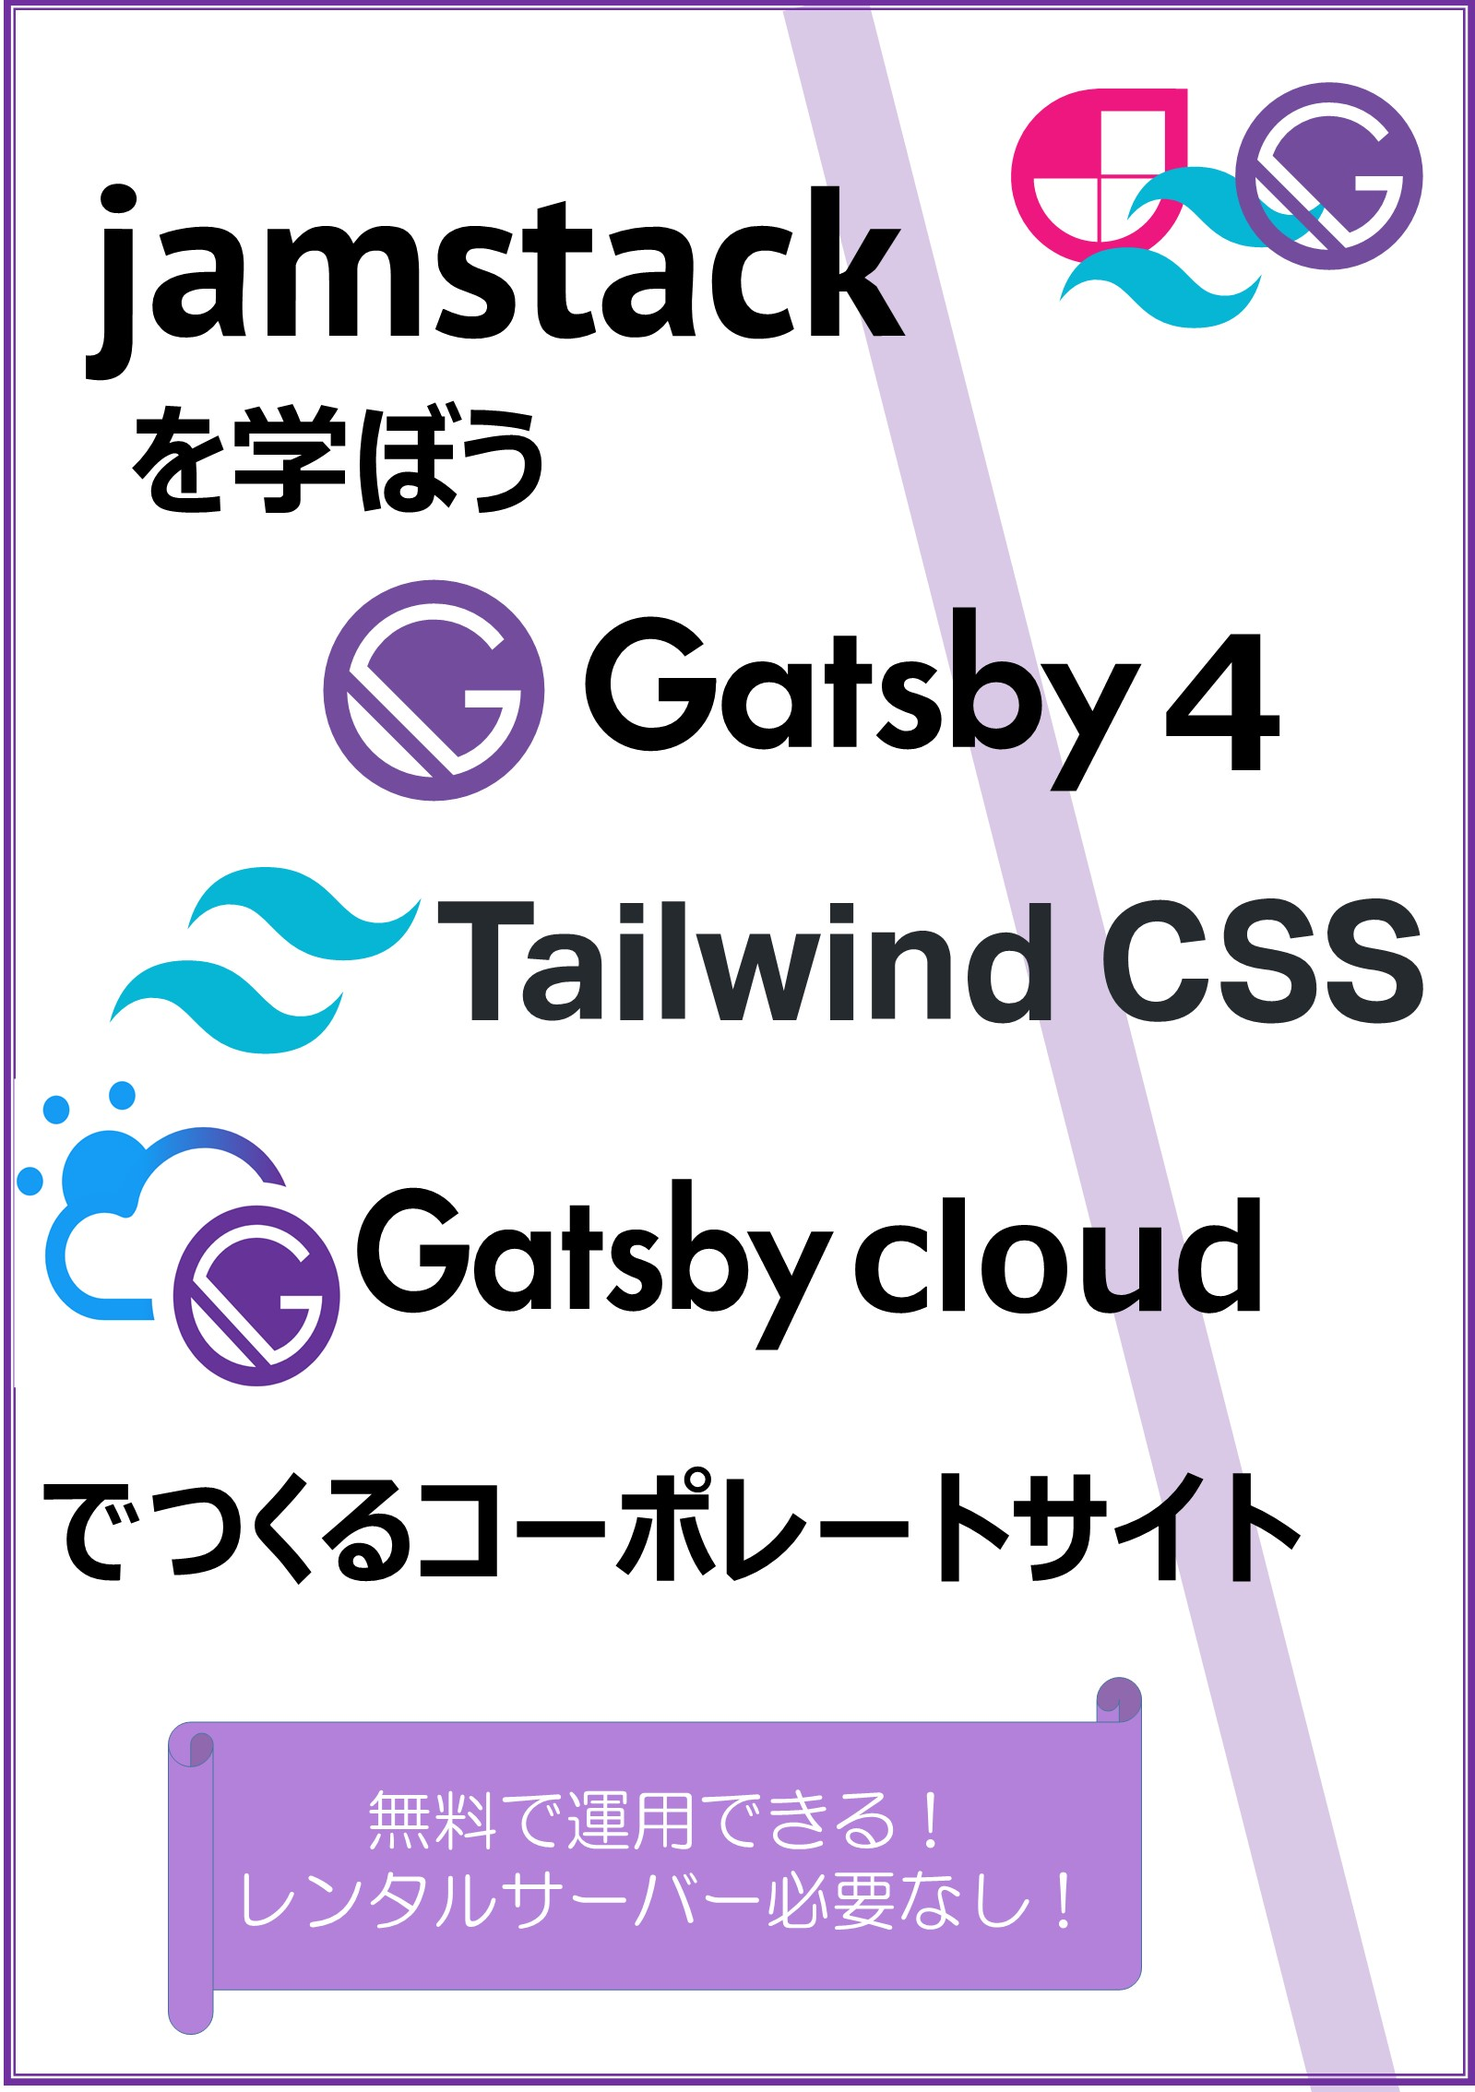
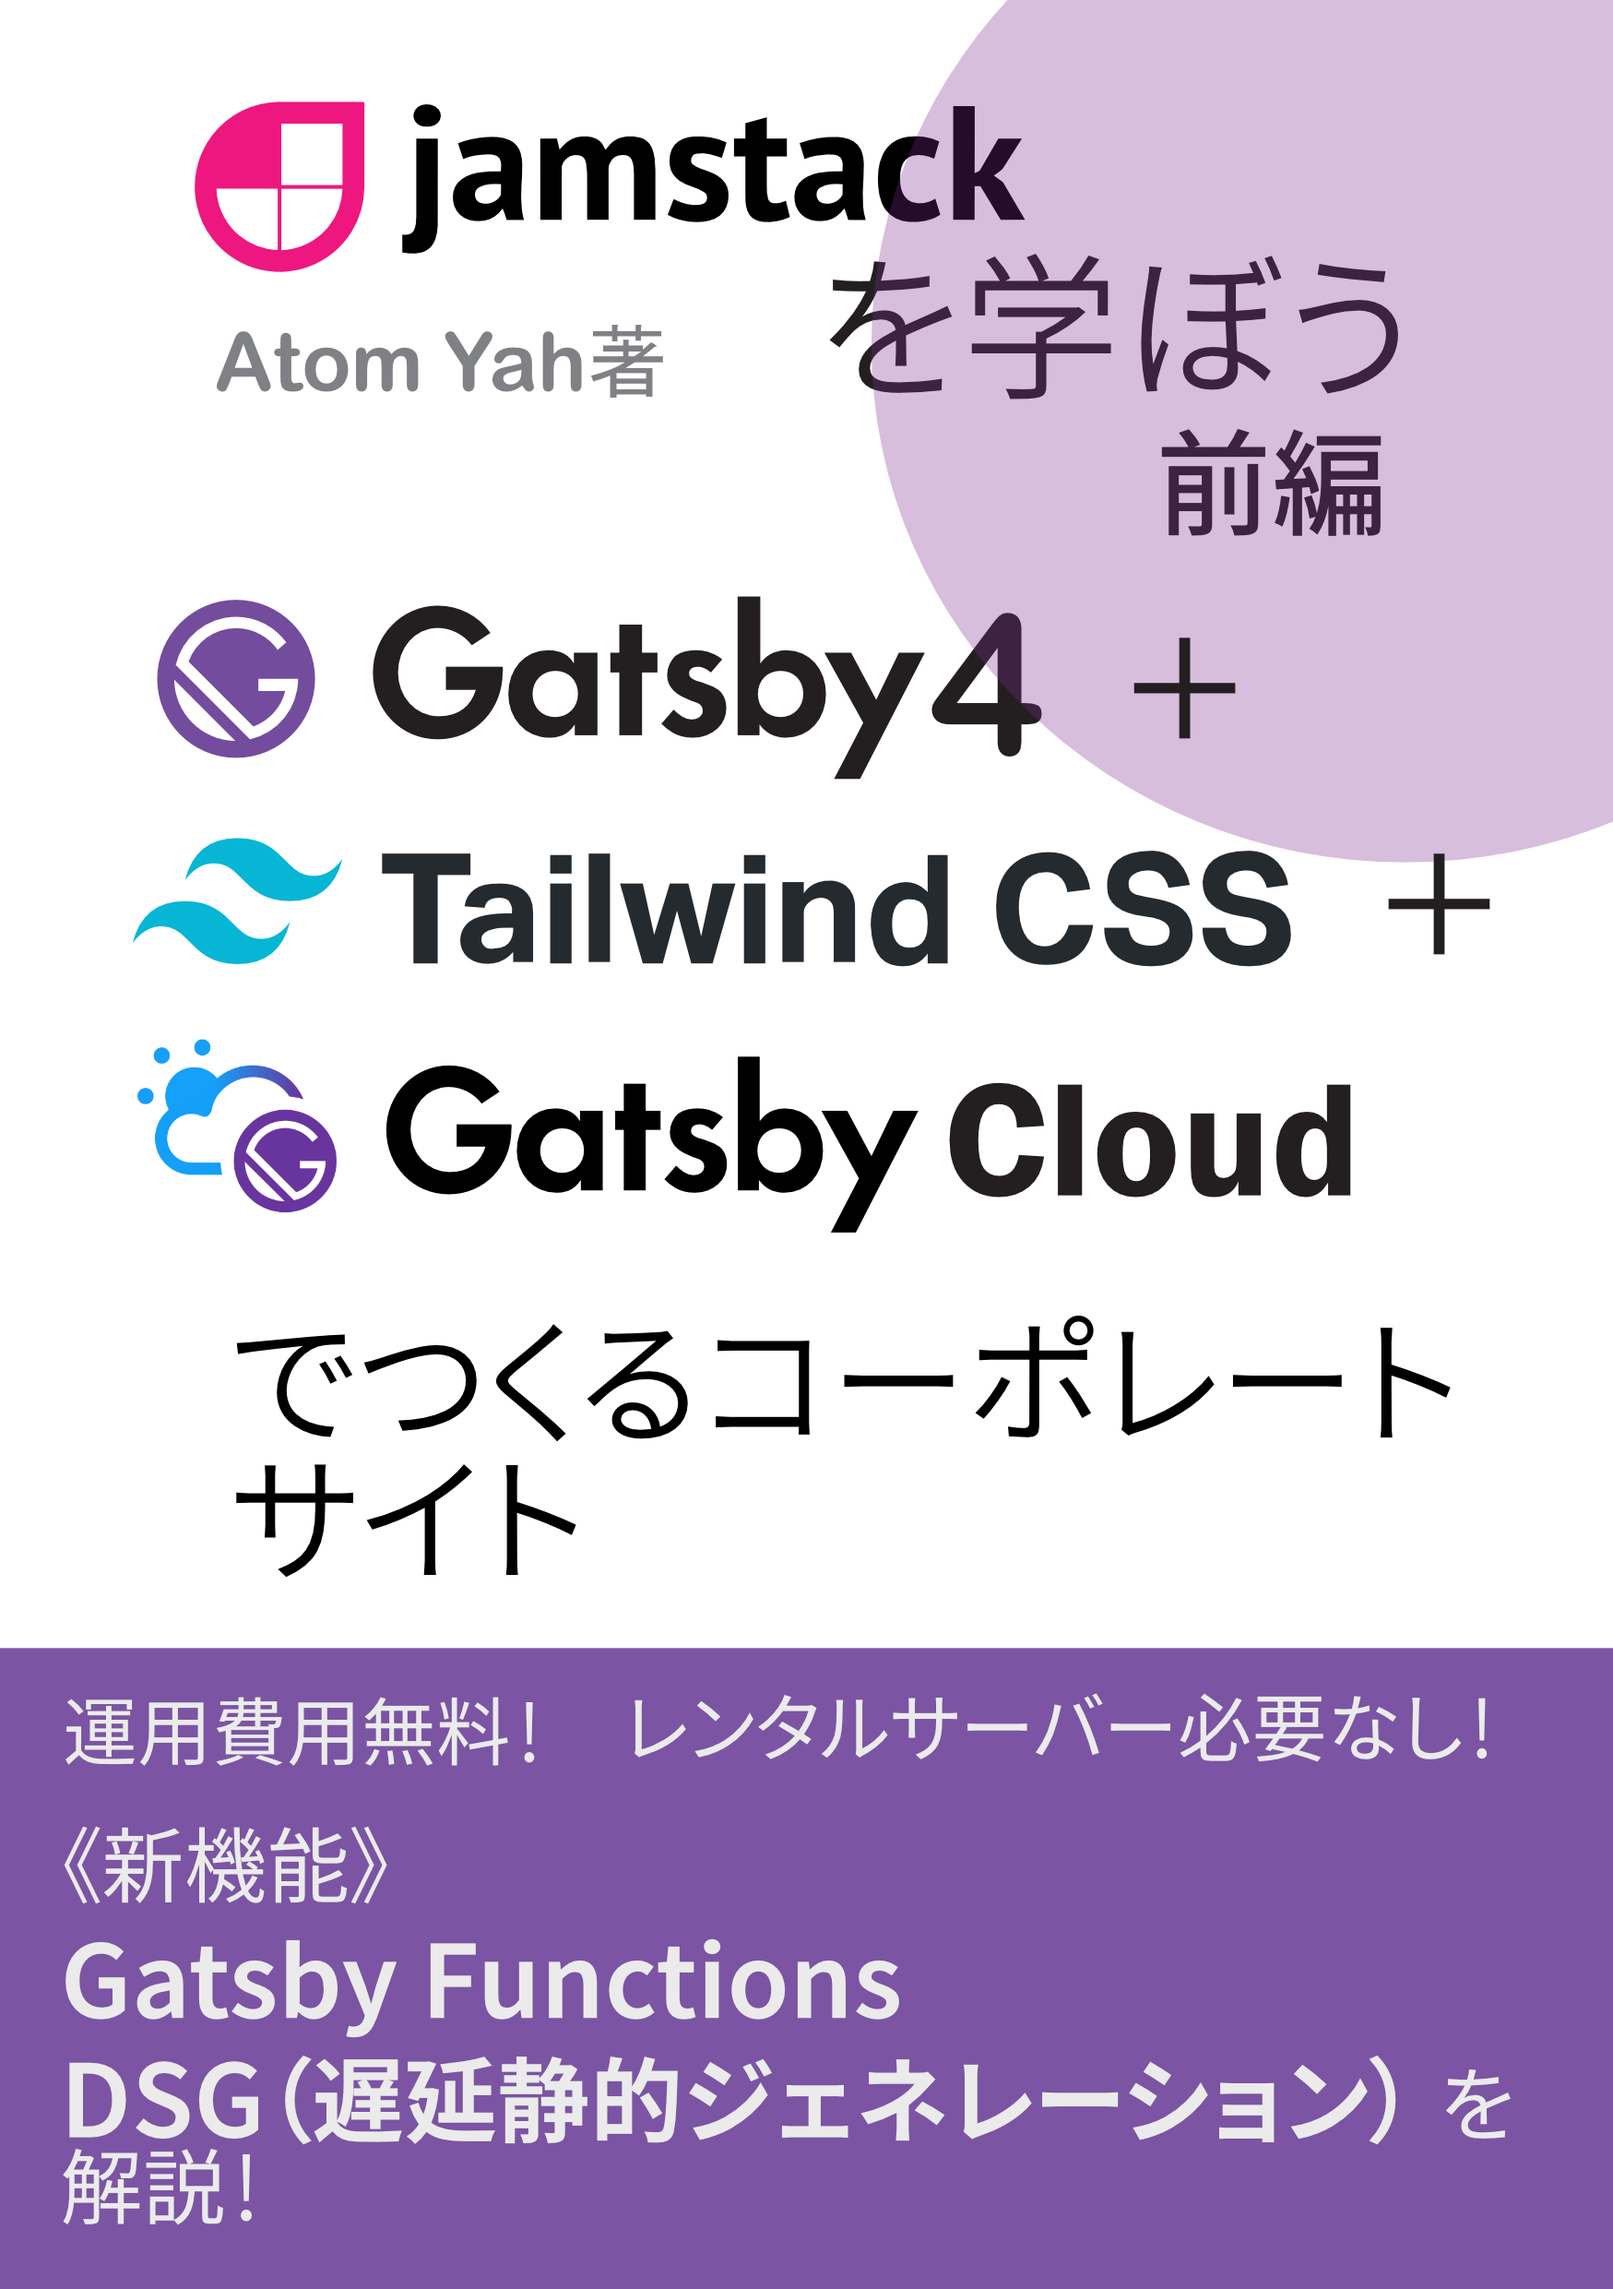
UPDATE: cover and Readme.md

diff --git a/README.md b/README.md
@@ -5,7 +5,7 @@
   </a>
 </p>
 <h1 align="center">
-  書籍『Gatsby4＋Tailwind CSS＋Gatsby Cloudでつくるコーポレートサイト』Lesson2完了時ソースコード
+  書籍『Gatsby4＋Tailwind CSS＋Gatsby Cloudでつくるコーポレートサイト』改訂新版 前編 Lesson2完了時ソースコード
 </h1>
 
 <hr>
